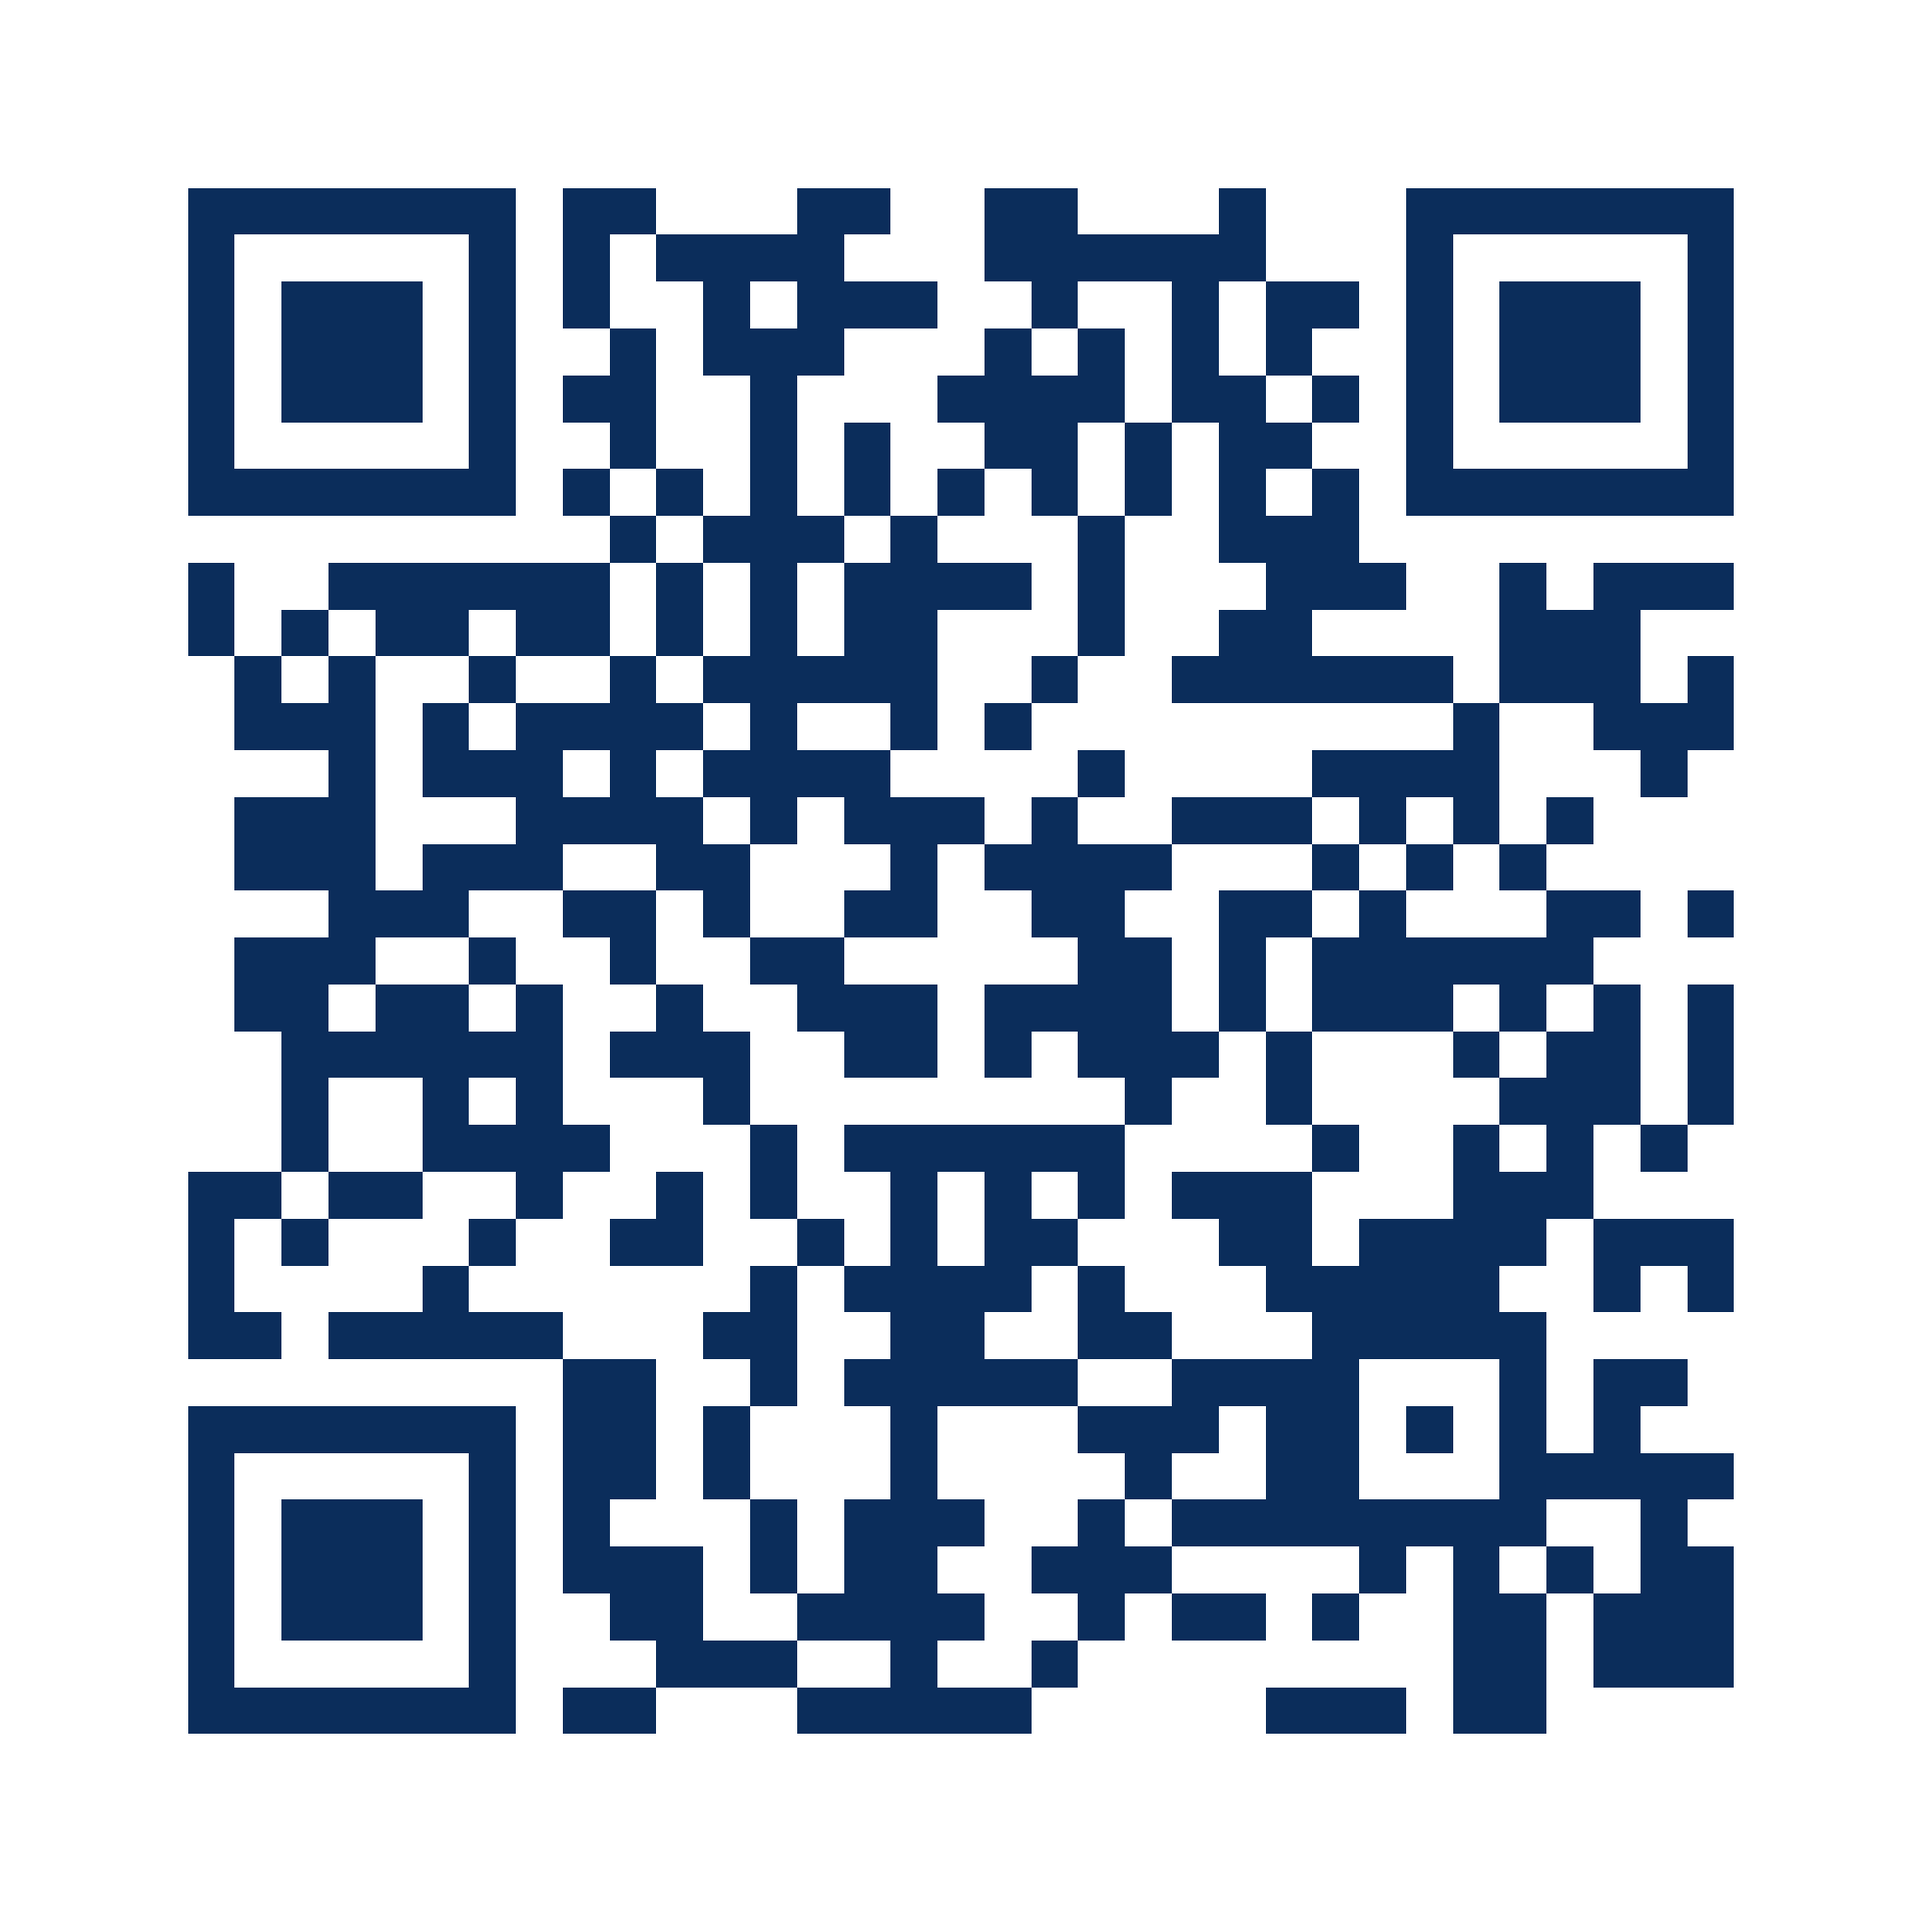
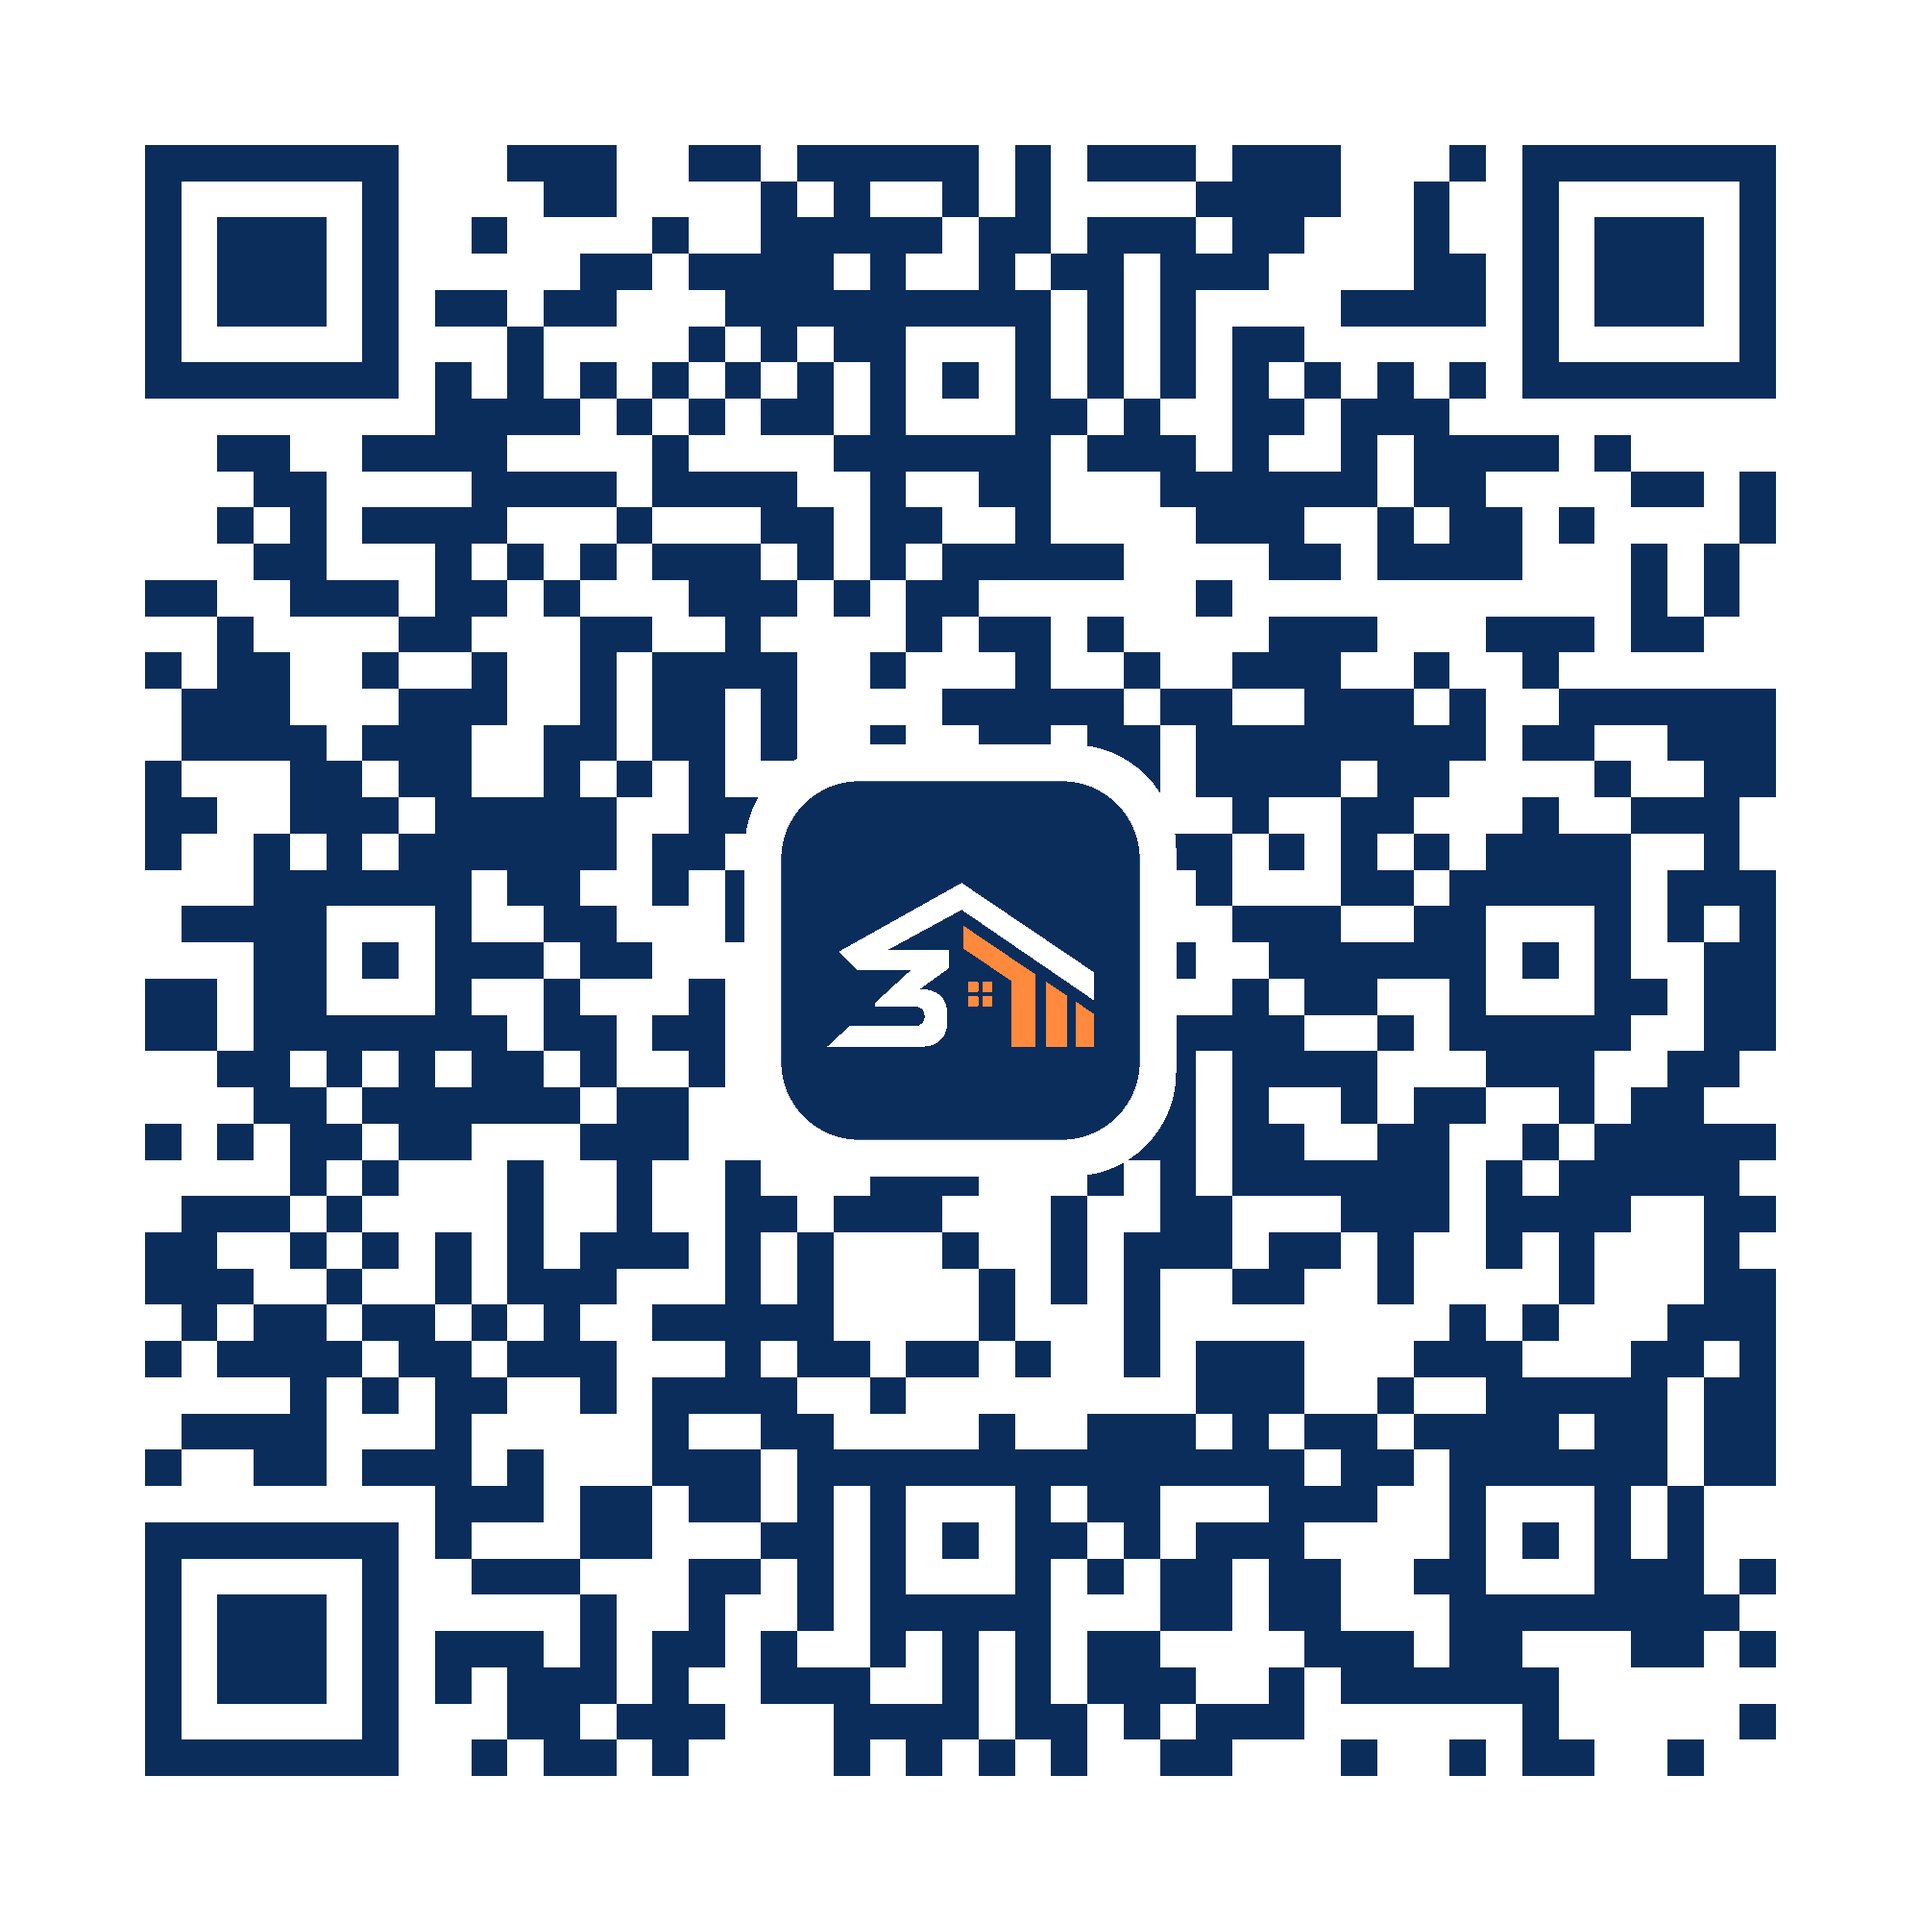
QR brosur pakai ikon 3 Putra di tengah
Claude-Session: https://claude.ai/code/session_015JGYLpBTLAu5YgjA3UqNDE

diff --git a/DESIGN.md b/DESIGN.md
@@ -103,7 +103,7 @@ Board logo dari pemilik digambar ulang jadi SVG (bukan tracing otomatis), file-n
 | `ikon-3putra.svg` | Tanda saja, tanpa tulisan |
 | `ikon-3putra-app.svg` / `-oranye.svg` | Ikon kotak: favicon (`src/app/icon.svg`), foto profil WA dan IG |
 | `og-logo.png` | Gambar preview link selama pemilik belum unggah foto layanan |
-| `qr-brosur.png` / `.svg` | QR di brosur, isinya `/link?utm_source=brosur`. Alamatnya jangan diganti: QR yang sudah dicetak tetap ke alamat itu |
+| `qr-brosur.png` / `.svg` | QR di brosur dengan ikon kotak navy di tengah (koreksi H), isinya `/link?utm_source=brosur`. Alamatnya jangan diganti: QR yang sudah dicetak tetap ke alamat itu |
 
 Tagline di logo "Spesialis Kanopi & Baja Ringan", sama dengan tagline teks di website
 (`businessConfig.tagline`). Board asli pemilik bertuliskan "Konstruksi & Metal Work"; diganti atas
